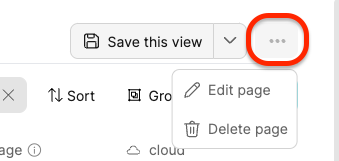
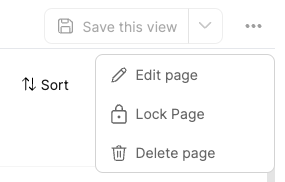
Added docs to the page lock feature

diff --git a/docs/customize-pages-dashboards-and-plugins/page/page.md b/docs/customize-pages-dashboards-and-plugins/page/page.md
@@ -104,7 +104,7 @@ When saving a new page or editing an existing one, a set of icons is available t
 </center>
 :::
 
-### Edit or delete a page
+### Edit, delete or lock a page
 
 #### Editing pages
 
@@ -124,6 +124,38 @@ Editing a page:
 
 :::note
 An Entity page is deleted automatically when the connected Entity is deleted.
+:::
+
+### Locking pages
+
+- Users that have Permission to Update a Page (Usually users with Admin Role) can lock the page's widgets.
+- Locking the page's widgets affect widgets that have Filter and/or Hide functionality.
+- In order to lock the page with its current state you need to save it first.
+
+**Using UI**
+
+- Click on the Page Menu (see image above) and choose `Lock Page`.
+
+**Using API**
+
+- To perform a page lock, make an **HTTP PATCH** request to the following URL: `https://api.getport.io/v1/pages/{page_identifier}`.
+- Making an **HTTP PATCH** request with the following body will lock the page's widgets
+
+```json showLineNumbers
+{
+  "locked": true
+}
+```
+
+:::note
+A locked page will have the `Lock` icon next to the page's title.
+
+<center>
+
+![Locked Page](../../../static/img/software-catalog/pages/LockedPage.png)
+
+</center>
+
 :::
 
 ## Table operations
